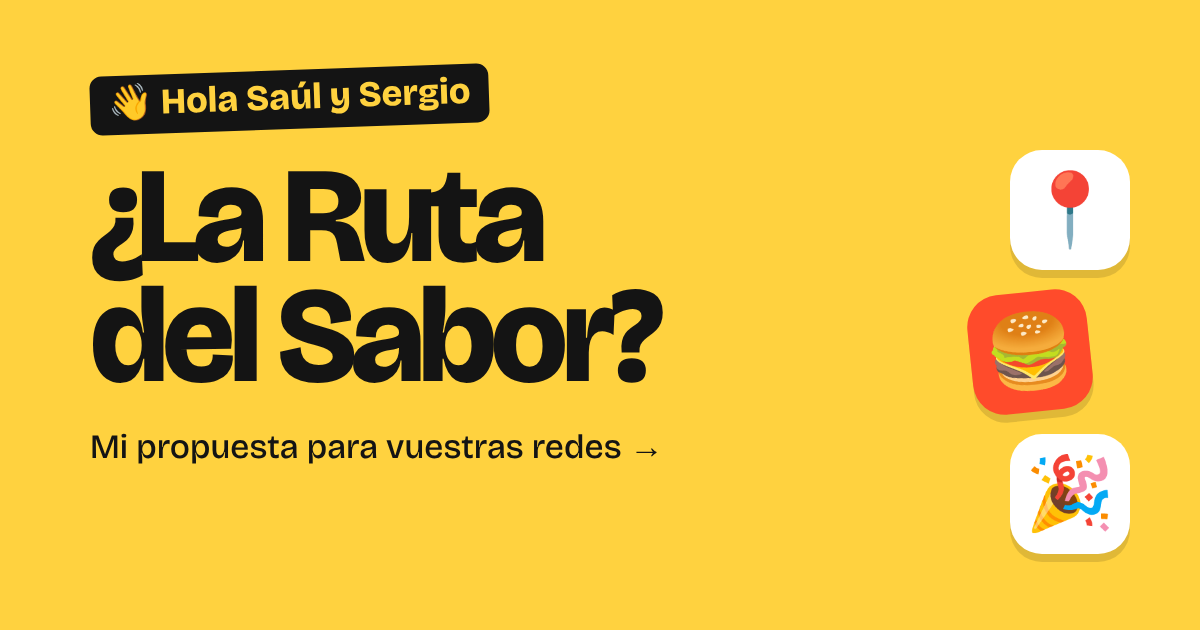
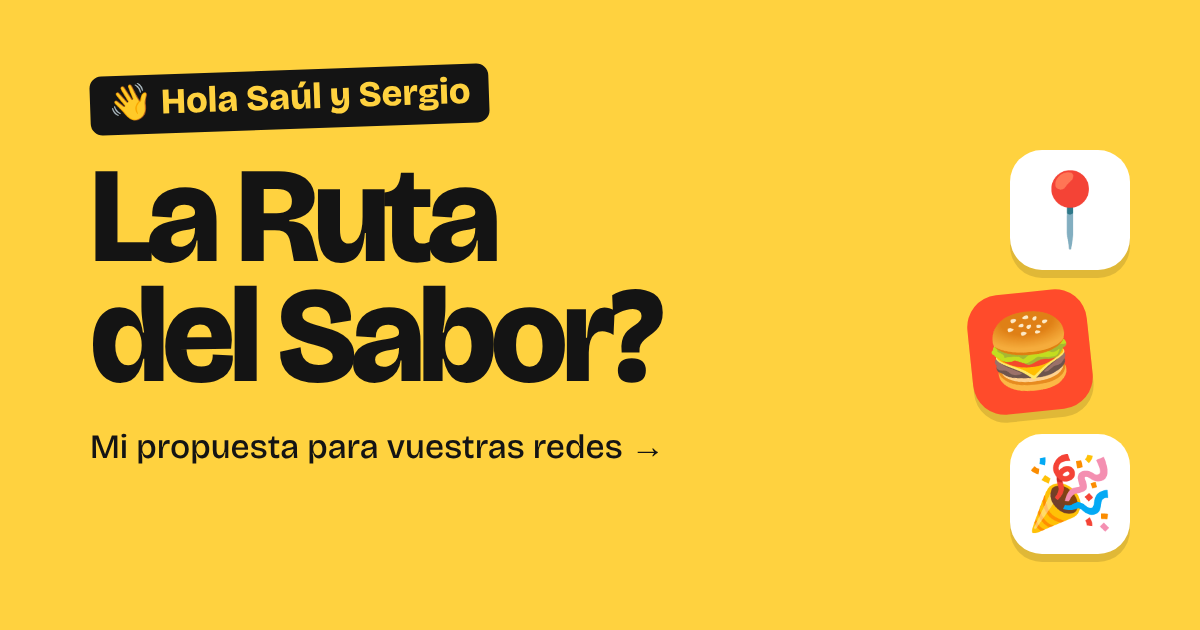
La Ruta del Sabor?: todo cabe en pantalla, sin signos de apertura y textos más limpios (#30)
Claude-Session: https://claude.ai/code/session_01CPwSEfAWoCXumdkw23UBmb

Changed region(s): [[0.0617, 0.2714, 0.4625, 0.4524], [0.1542, 0.6937, 0.5242, 0.7238]]

diff --git a/ruta/index.html b/ruta/index.html
@@ -5,8 +5,8 @@
 <meta name="viewport" content="width=device-width,initial-scale=1,viewport-fit=cover,user-scalable=no">
 <meta name="robots" content="noindex">
 <meta name="theme-color" content="#ffd23f">
-<title>¿La Ruta del Sabor?</title>
-<meta property="og:title" content="¿La Ruta del Sabor?">
+<title>La Ruta del Sabor?</title>
+<meta property="og:title" content="La Ruta del Sabor?">
 <meta property="og:description" content="Mi propuesta para vuestras redes. Tocad para verla 👆">
 <meta property="og:image" content="https://elenasorianomartinez.github.io/kriol/ruta/og.png">
 <meta property="og:type" content="website">
@@ -87,6 +87,19 @@ p{font-weight:500;font-size:20px;line-height:1.25}
 .wh{display:block;font-weight:800;font-size:22px;margin-bottom:6px}
 #s6{background:#141414;color:#fff}
 .op span small{display:block;font-weight:500;font-size:13px;opacity:.65;line-height:1.2;margin-top:2px}
+.s>*{flex-shrink:0}
+h1{text-wrap:balance}p,.tx,.note,.ds,.hint,.op span small,.tap{text-wrap:pretty}
+#s4{padding-top:calc(env(safe-area-inset-top) + 56px)}
+#s4 h1{font-size:clamp(34px,10vw,42px)}
+#s4 .sec{margin-top:12px}
+#s4 .seg div{padding:8px 6px;font-size:15px}
+#s4 .op{padding:12px 16px;margin-top:9px;font-size:18px}
+#s4 .op .ck{width:22px;height:22px}
+#s4 .deal{margin-top:10px;font-size:15px;min-height:0}
+#s4 .tot{padding:6px 4px 8px;font-size:15px;line-height:1.45}
+#s4 .btn{padding:15px;font-size:19px}
+#s4 .sec{font-size:16px;opacity:.6}
+@media (max-height:640px){.s{padding-top:calc(env(safe-area-inset-top) + 48px)} h1,#s2 h1,#s35 h1{font-size:36px} .it .em{width:52px!important;height:52px!important;font-size:28px!important} #s4 .op small{display:none} p{font-size:18px} .it{margin-top:10px!important} .it.q .tx{font-size:17px}}
 </style>
 </head>
 <body>
@@ -95,8 +108,8 @@ p{font-weight:500;font-size:20px;line-height:1.25}
 
   <section class="s on" id="s1" data-tap>
     <div class="up"><span class="wave">👋</span></div>
-    <h1 class="up" style="animation-delay:.1s">¡Hola <span class="nm">Saúl</span><br>y <span class="nm">Sergio</span>!</h1>
-    <p class="up" style="margin-top:26px;animation-delay:.25s">Esto es lo que os propongo para las redes de <b>¿La Ruta del Sabor?</b></p>
+    <h1 class="up" style="animation-delay:.1s">Hola <span class="nm">Saúl</span><br>y <span class="nm">Sergio</span>!</h1>
+    <p class="up" style="margin-top:26px;animation-delay:.25s">Esto es lo que os propongo para las redes de <b>La Ruta del Sabor?</b></p>
     <p class="up" style="margin-top:16px;animation-delay:.35s">Vosotros cocináis, grabáis y disfrutáis de las fiestas. Yo me encargo de que todo eso se vea bien en Instagram.</p>
     <div class="tap">Toca para seguir →</div>
   </section>
@@ -104,63 +117,60 @@ p{font-weight:500;font-size:20px;line-height:1.25}
   <section class="s" id="s2" data-tap data-dark>
     <h1 class="up">Las semanas que tengáis fiesta, os hago:</h1>
     <div class="hint up" style="animation-delay:.1s">👆 Tocad cada cosa para ver qué es y cuánto cuesta</div>
-    <div class="it up" style="animation-delay:.15s"><div class="em">📍</div><div class="tx">Un cartel para anunciar dónde vais a estar<small class="ds">Un diseño para Instagram con el sitio, la fecha y lo importante del evento.</small></div><div class="pr">10 €</div></div>
-    <div class="it up" style="animation-delay:.25s"><div class="em">🍔</div><div class="tx">Un vídeo enseñando un plato<small class="ds">Me mandáis los clips y yo elijo lo mejor, lo edito, le pongo música y lo dejo listo para Instagram.</small></div><div class="pr">20 €</div></div>
-    <div class="it up" style="animation-delay:.35s"><div class="em">🎉</div><div class="tx">Un vídeo resumen de la fiesta<small class="ds">Lo mejor de la fiesta en un vídeo corto: el ambiente, la comida, la gente, cómo cocináis…</small></div><div class="pr">25 €</div></div>
+    <div class="it up" style="animation-delay:.15s"><div class="em">📍</div><div class="tx">Un cartel para anunciar dónde vais a estar<small class="ds">Un diseño para Instagram con el sitio, la fecha y lo importante del evento.</small></div><div class="pr">10 €</div></div>
+    <div class="it up" style="animation-delay:.25s"><div class="em">🍔</div><div class="tx">Un vídeo enseñando un plato<small class="ds">Me mandáis los clips y yo elijo lo mejor, lo edito, le pongo música y lo dejo listo para Instagram.</small></div><div class="pr">20 €</div></div>
+    <div class="it up" style="animation-delay:.35s"><div class="em">🎉</div><div class="tx">Un vídeo resumen de la fiesta<small class="ds">Lo mejor de la fiesta en un vídeo corto: el ambiente, la comida, la gente, cómo cocináis…</small></div><div class="pr">25 €</div></div>
     <div class="tap">Toca aquí abajo para seguir →</div>
   </section>
 
   <section class="s" id="s3" data-tap data-dark>
     <p class="up">Semana con fiesta, las tres cosas juntas:</p>
     <div class="big up" style="animation-delay:.1s"><span id="n40">0</span><small>€</small></div>
-    <div class="up" style="animation-delay:.2s"><span class="save">os ahorráis 5 €</span></div>
+    <div class="up" style="animation-delay:.2s"><span class="save">os ahorráis 5 €</span></div>
     <p class="up" style="animation-delay:.25s">Solo lo pagáis las semanas que tengáis fiesta.</p>
-    <div class="note up" style="animation-delay:.35s">🧾 Por separado serían 10 € + 20 € + 25 € = <b>55 €</b>.<br>Juntas, <b>50 €</b>.</div>
     <div class="tap">Toca para seguir →</div>
   </section>
 
   <section class="s" id="s35" data-tap data-dark>
-    <h1 class="up">¿Y las semanas sin fiesta?</h1>
+    <h1 class="up">Y las semanas sin fiesta?</h1>
     <p class="up" style="margin-top:14px;animation-delay:.1s">Para que el Instagram no se quede parado aunque no tengáis eventos, esa semana os hago:</p>
     <div class="it2 up" style="animation-delay:.15s"><div class="em">📸</div><div class="tx">1 publicación y 3 historias, con sus textos, y las publico yo</div></div>
-    <div class="it up" style="animation-delay:.25s"><div class="em">✨</div><div class="tx">¿Y si esa semana hay novedad?<small class="ds">Un plato nuevo, una promo, un anuncio… Le damos prioridad y cambiamos lo que tocaba publicar para contar lo más importante.</small></div></div>
     <div class="big up" style="animation-delay:.3s;font-size:clamp(72px,22vw,96px);margin-top:14px"><span>30</span><small>€</small></div>
     <p class="up" style="animation-delay:.35s">por semana sin fiesta, con las fotos y vídeos que ya me hayáis mandado.</p>
     <div class="tap">Toca para seguir →</div>
   </section>
 
   <section class="s" id="s5" data-tap>
-    <h1 class="up">¿Cómo lo hacemos?</h1>
+    <h1 class="up">Cómo lo hacemos?</h1>
     <div class="note lt up" style="animation-delay:.1s"><b class="wh">🍔 Vosotros</b>Grabáis vídeos y hacéis fotos de los platos, del food truck y de las fiestas, y me lo mandáis con tiempo para preparar las publicaciones. No hace falta que esté editado ni que sea profesional: solo que se vea bien.</div>
     <div class="note lt up" style="animation-delay:.2s"><b class="wh">📲 Yo</b>Elijo el material, edito los vídeos, hago los diseños, escribo los textos y lo publico en Instagram.</div>
     <div class="tap">Toca para seguir →</div>
   </section>
 
   <section class="s" id="s6" data-tap data-dark>
-    <h1 class="up">¿Dudas?</h1>
-    <div class="hint up" style="animation-delay:.05s;opacity:.7">👆 Tocad cada pregunta</div>
-    <div class="it q up" style="animation-delay:.1s"><div class="em">🎥</div><div class="tx">¿Tienes que venir tú a grabar?<small class="ds">No. Estos precios son para trabajar con lo que me mandéis vosotros. Si algún día necesitáis que vaya a grabar, lo hablamos aparte.</small></div></div>
-    <div class="it q up" style="animation-delay:.15s"><div class="em">🎬</div><div class="tx">¿Y si queremos un vídeo más currado?<small class="ds">Los precios son para vídeos sencillos y chulos para redes. Si queréis algo más complejo o con mucho más trabajo, lo hablamos y vemos el precio antes de hacerlo.</small></div></div>
-    <div class="it q up" style="animation-delay:.2s"><div class="em">💬</div><div class="tx">¿Contestas tú los mensajes?<small class="ds">No. Yo preparo y publico el contenido. Los mensajes, los comentarios y los pedidos los seguís llevando vosotros.</small></div></div>
-    <div class="it q up" style="animation-delay:.25s"><div class="em">📅</div><div class="tx">¿Y si una semana no hay fiesta?<small class="ds">No pasa nada. Esa semana es la de 30 €: seguimos enseñando los platos, el food truck y las novedades.</small></div></div>
-    <div class="it q up" style="animation-delay:.3s"><div class="em">🧪</div><div class="tx">¿Podemos probar primero?<small class="ds">Sí. Empezamos un mes con estos precios y luego vemos juntos cómo ha ido, cuánto trabajo ha sido y si hay que ajustar algo.</small></div></div>
-    <div class="it q up" style="animation-delay:.35s"><div class="em">🗓</div><div class="tx">¿Cómo sería el primer mes?<small class="ds">Semana 1: si lo necesitáis, logo, colores e Instagram listos.<br>Semanas 2 a 4: contenido normal (50 € con fiesta, 30 € sin fiesta).<br>Al final del mes: lo hablamos.</small></div></div>
+    <h1 class="up">Dudas?</h1>
+    <div class="hint up" style="animation-delay:.05s;opacity:.7;margin:14px 0 4px">👆 Tocad cada pregunta</div>
+    <div class="it q up" style="animation-delay:.1s"><div class="em">🎥</div><div class="tx">Tienes que venir tú a grabar?<small class="ds">No. Estos precios son para trabajar con lo que me mandéis vosotros. Si algún día necesitáis que vaya a grabar, lo hablamos aparte.</small></div></div>
+    <div class="it q up" style="animation-delay:.15s"><div class="em">🎬</div><div class="tx">Y si queremos un vídeo más currado?<small class="ds">Los precios son para vídeos sencillos y chulos para redes. Si queréis algo más complejo o con mucho más trabajo, lo hablamos y vemos el precio antes de hacerlo.</small></div></div>
+    <div class="it q up" style="animation-delay:.2s"><div class="em">💬</div><div class="tx">Contestas tú los mensajes?<small class="ds">No. Yo preparo y publico el contenido. Los mensajes, los comentarios y los pedidos los seguís llevando vosotros.</small></div></div>
+    <div class="it q up" style="animation-delay:.25s"><div class="em">📅</div><div class="tx">Y si una semana no hay fiesta?<small class="ds">No pasa nada. Esa semana es la de 30 €: seguimos enseñando los platos, el food truck y las novedades.</small></div></div>
+    <div class="it q up" style="animation-delay:.3s"><div class="em">🧪</div><div class="tx">Podemos probar primero?<small class="ds">Sí. Empezamos un mes con estos precios y luego vemos juntos cómo ha ido, cuánto trabajo ha sido y si hay que ajustar algo.</small></div></div>
+    <div class="it q up" style="animation-delay:.35s"><div class="em">🗓</div><div class="tx">Cómo sería el primer mes?<small class="ds">Semana 1: si lo necesitáis, logo, colores e Instagram listos.<br>Semanas 2 a 4: contenido normal (50 € con fiesta, 30 € sin fiesta).<br>Al final del mes: lo hablamos.</small></div></div>
     <div class="tap">Toca para seguir →</div>
   </section>
 
   <section class="s" id="s4">
     <button class="back" id="back">← atrás</button>
-    <h1 class="up">Elegid</h1>
-    <div class="sec up">¿Cómo lo queréis?</div>
-    <div class="seg up" id="seg" style="animation-delay:.05s"><div class="on" data-w="0">Solo semanas con fiesta<small>50 € esas semanas</small></div><div data-w="1">Con y sin fiesta<small>50 € o 30 € según la semana</small></div></div>
-    <div class="sec up" style="animation-delay:.08s">¿Os falta algo? <span style="text-transform:none;letter-spacing:0;font-weight:500">(se paga una vez)</span></div>
-    <div class="op up" data-p="60" data-n="Logo" style="animation-delay:.1s"><div class="ck"></div><span>Logo<small>Sencillo y fácil de reconocer</small></span><i>60 €</i></div>
-    <div class="op up" data-p="40" data-n="Colores y estilo" style="animation-delay:.15s"><div class="ck"></div><span>Colores y estilo<small>Colores, letras y estilo para que todo vaya a juego</small></span><i>40 €</i></div>
-    <div class="op up" data-p="30" data-n="La carta" style="animation-delay:.2s"><div class="ck"></div><span>La carta<small>Vuestros platos y precios, claros y bonitos</small></span><i>30 €</i></div>
-    <div class="op up" data-p="25" data-n="Crear el Instagram" style="animation-delay:.25s"><div class="ck"></div><span>Crear el Instagram<small>Perfil, bio, foto y datos, listo para publicar</small></span><i>25 €</i></div>
+    <div class="sec up" style="margin-top:4px">Cómo lo queréis?</div>
+    <div class="seg up" id="seg" style="animation-delay:.05s"><div class="on" data-w="0">Solo semanas con fiesta<small>50 € esas semanas</small></div><div data-w="1">Con y sin fiesta<small>50 € o 30 € según la semana</small></div></div>
+    <div class="sec up" style="animation-delay:.08s">Os falta algo? <span style="text-transform:none;letter-spacing:0;font-weight:500">(se paga una vez)</span></div>
+    <div class="op up" data-p="60" data-n="Logo" style="animation-delay:.1s"><div class="ck"></div><span>Logo</span><i>60 €</i></div>
+    <div class="op up" data-p="40" data-n="Colores y estilo" style="animation-delay:.15s"><div class="ck"></div><span>Colores y estilo</span><i>40 €</i></div>
+    <div class="op up" data-p="30" data-n="La carta" style="animation-delay:.2s"><div class="ck"></div><span>La carta</span><i>30 €</i></div>
+    <div class="op up" data-p="25" data-n="Crear el Instagram" style="animation-delay:.25s"><div class="ck"></div><span>Crear el Instagram</span><i>25 €</i></div>
     <div class="deal" id="deal"></div>
-    <div class="tot"><div><span>Semana con fiesta</span><b>50 €</b></div><div id="wk" style="display:none"><span>Semana sin fiesta</span><b>30 €</b></div><div><span>Extras (una vez)</span><b id="ext">0 €</b></div></div>
-    <a class="btn" id="go" href="#" target="_blank" rel="noopener">¡Contad conmigo! 💬</a>
+    <div class="tot"><div><span>Semana con fiesta</span><b>50 €</b></div><div id="wk" style="display:none"><span>Semana sin fiesta</span><b>30 €</b></div><div><span>Extras (una vez)</span><b id="ext">0 €</b></div></div>
+    <a class="btn" id="go" href="#" target="_blank" rel="noopener">Contad conmigo! 💬</a>
   </section>
 </div>
 <script>
@@ -182,9 +192,9 @@ const O=[...document.querySelectorAll('.op')];let W=0;
 document.querySelectorAll('#seg div').forEach(d=>d.onclick=()=>{W=+d.dataset.w;document.querySelectorAll('#seg div').forEach(x=>x.classList.toggle('on',x===d));document.getElementById('wk').style.display=W?'flex':'none';upd()});
 function upd(){const sel=O.filter(o=>o.classList.contains('on'));let sum=sel.reduce((a,o)=>a+ +o.dataset.p,0);const all=sel.length===O.length;
  if(all)sum=130;document.getElementById('ext').textContent=sum+' €';
- document.getElementById('deal').textContent=all?'🎁 Los cuatro juntos: 155 € → 130 €':'Los cuatro juntos: 130 € en vez de 155 €';
- let m='¡Hola Elena! 🍔 Desde ¿La Ruta del Sabor? contamos contigo para las redes.\n\n• Semana con fiesta: cartel + vídeo de un plato + vídeo resumen (50 €)';
- if(W)m+='\n• Semana sin fiesta: 1 publicación + 3 historias (30 €)';
+ document.getElementById('deal').textContent=all?'🎁 Los cuatro juntos: 155 € → 130 €':'Los cuatro juntos: 130 € en vez de 155 €';
+ let m='Hola Elena! 🍔 Desde La Ruta del Sabor? contamos contigo para las redes.\n\n• Semana con fiesta: cartel + vídeo de un plato + vídeo resumen (50 €)';
+ if(W)m+='\n• Semana sin fiesta: 1 publicación + 3 historias (30 €)';
  if(sel.length)m+='\n• Extras: '+sel.map(o=>o.dataset.n).join(', ')+' ('+sum+' €)';
  document.getElementById('go').href='https://wa.me/34601732901?text='+encodeURIComponent(m)}
 O.forEach(o=>o.onclick=()=>{o.classList.toggle('on');upd()});upd();show(0);B[0].classList.add('done');
